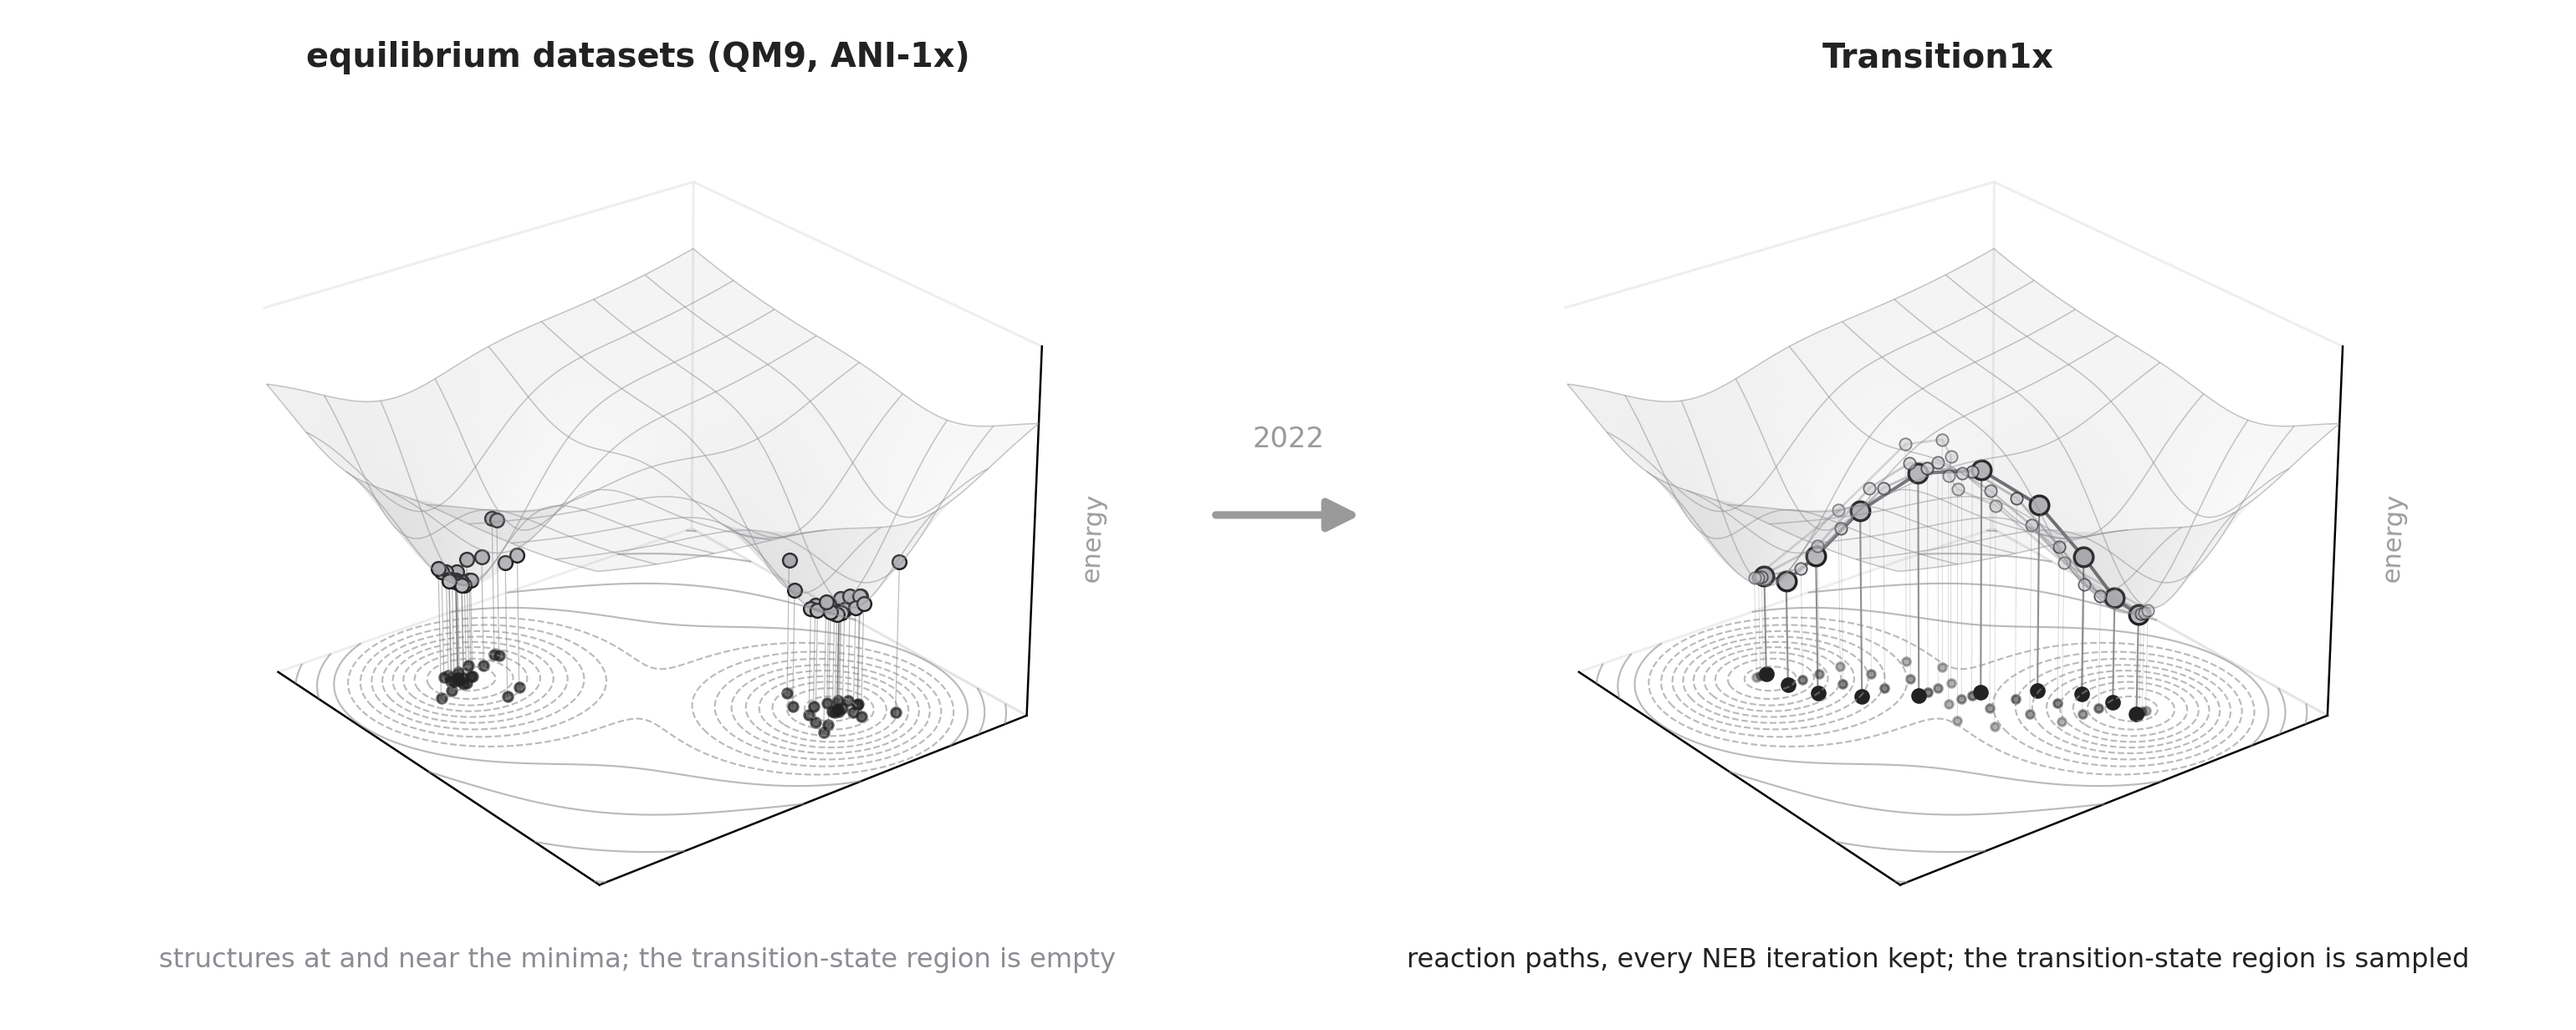
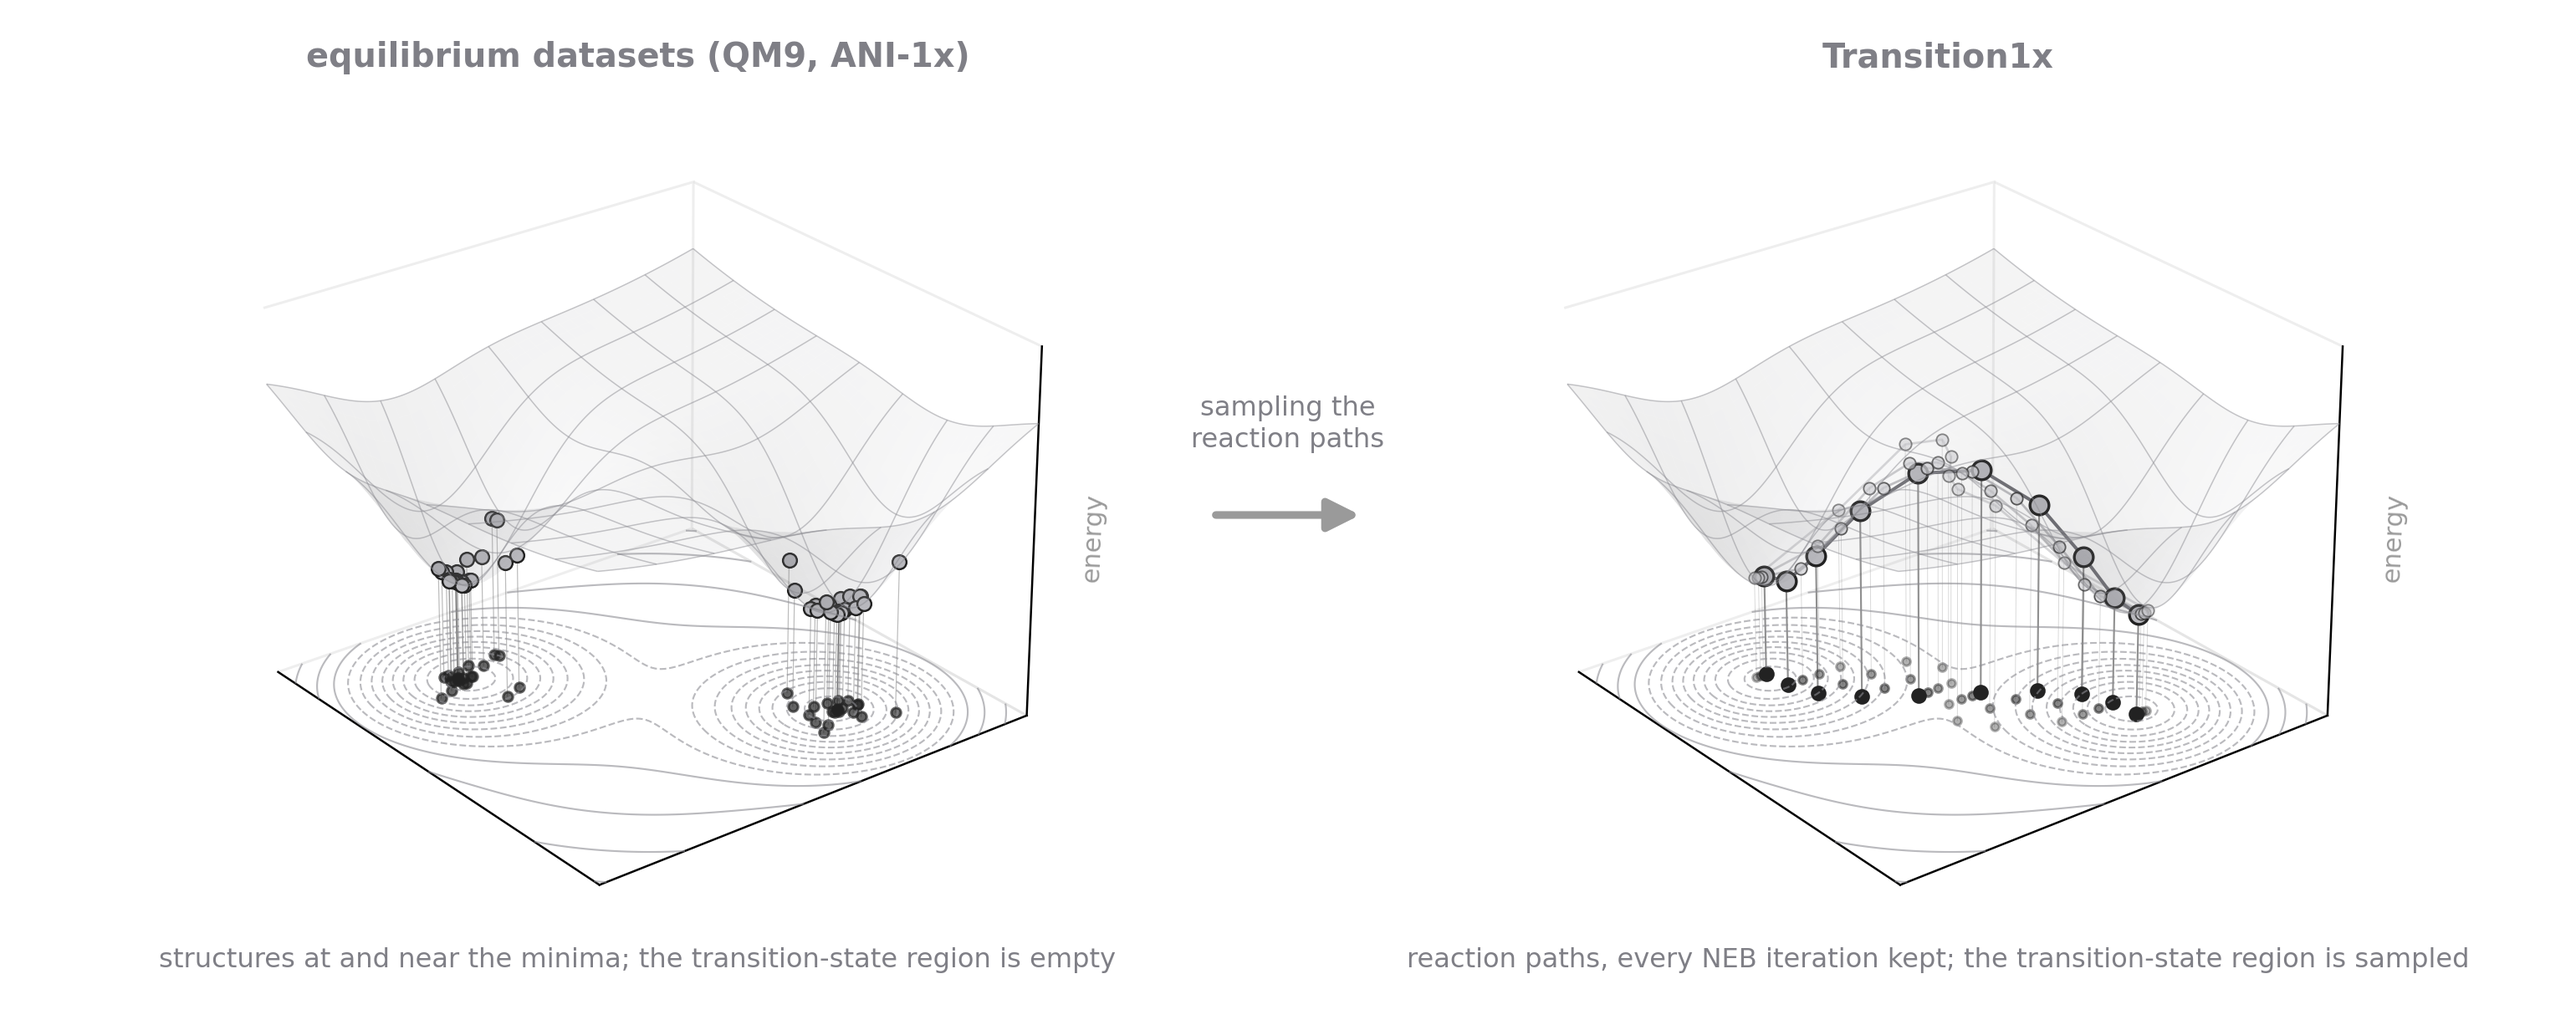
Defence talk: equilibrium vs Transition1x figure readable on dark backgrounds, arrow caption

diff --git a/docs/defence/draw_dataset_pics.py b/docs/defence/draw_dataset_pics.py
@@ -387,16 +387,16 @@ def panel_equilibrium(ax):
 fig = plt.figure(figsize=(14, 5.6))
 axl = fig.add_subplot(1, 2, 1, projection="3d"); panel_equilibrium(axl)
 axr = fig.add_subplot(1, 2, 2, projection="3d"); panel3d(axr, both=False, bands=True)
-axl.set_title("equilibrium datasets (QM9, ANI-1x)", fontsize=13, fontweight="bold", color=INK, pad=14)
-axr.set_title("Transition1x", fontsize=13, fontweight="bold", color=INK, pad=14)
+axl.set_title("equilibrium datasets (QM9, ANI-1x)", fontsize=13, fontweight="bold", color="#7f7f86", pad=14)
+axr.set_title("Transition1x", fontsize=13, fontweight="bold", color="#7f7f86", pad=14)
 axl.text2D(0.5, 0.0, "structures at and near the minima; the transition-state region is empty",
-           transform=axl.transAxes, ha="center", va="top", fontsize=10.5, color="#8c8c92")
+           transform=axl.transAxes, ha="center", va="top", fontsize=10.5, color="#7f7f86")
 axr.text2D(0.5, 0.0, "reaction paths, every NEB iteration kept; the transition-state region is sampled",
-           transform=axr.transAxes, ha="center", va="top", fontsize=10.5, color=INK)
+           transform=axr.transAxes, ha="center", va="top", fontsize=10.5, color="#7f7f86")
 arr = FancyArrowPatch((0.47, 0.5), (0.53, 0.5), transform=fig.transFigure,
                       arrowstyle="-|>", mutation_scale=26, lw=3, color="#9a9a9a")
 fig.patches.append(arr)
-fig.text(0.5, 0.56, "2022", ha="center", va="bottom", fontsize=11, color="#9a9a9a")
+fig.text(0.5, 0.56, "sampling the" + chr(10) + "reaction paths", ha="center", va="bottom", fontsize=10.5, color="#7f7f86", linespacing=1.3)
 fig.subplots_adjust(left=0.0, right=1.0, top=0.90, bottom=0.08, wspace=0.02)
 fig.savefig(OUT + "pic_t1x_vs_equilibrium.png", dpi=220, transparent=True)
 plt.close(fig)
